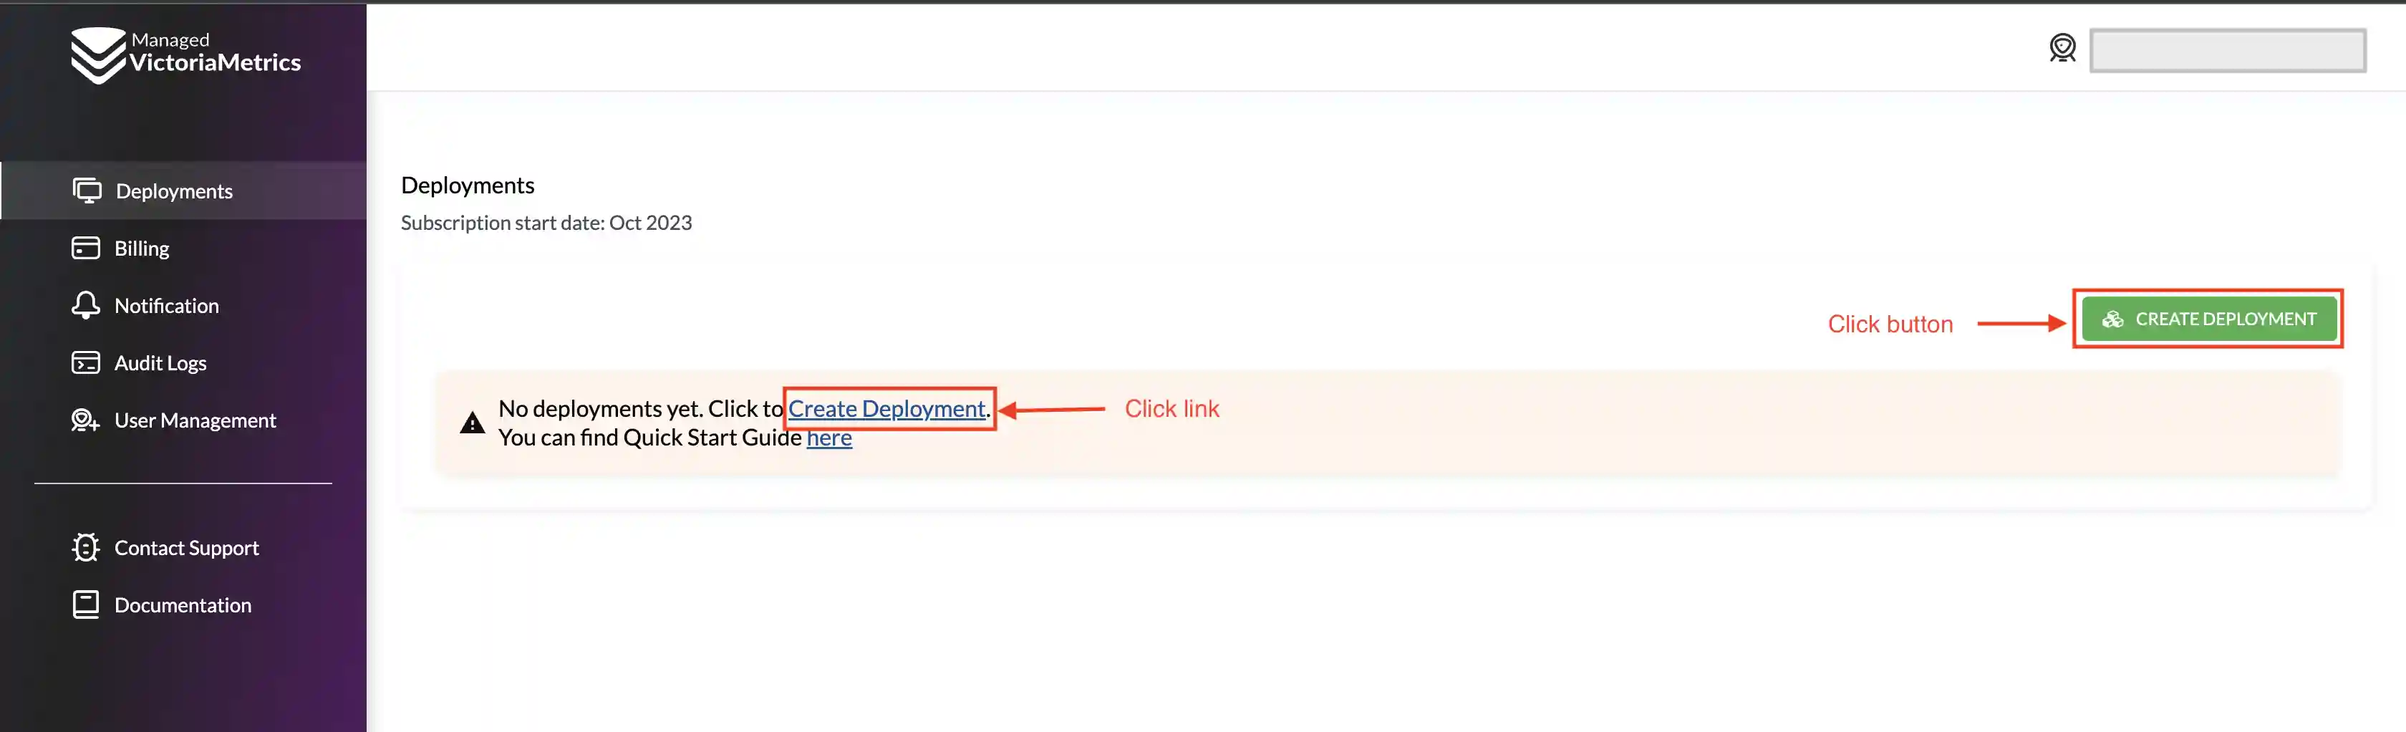
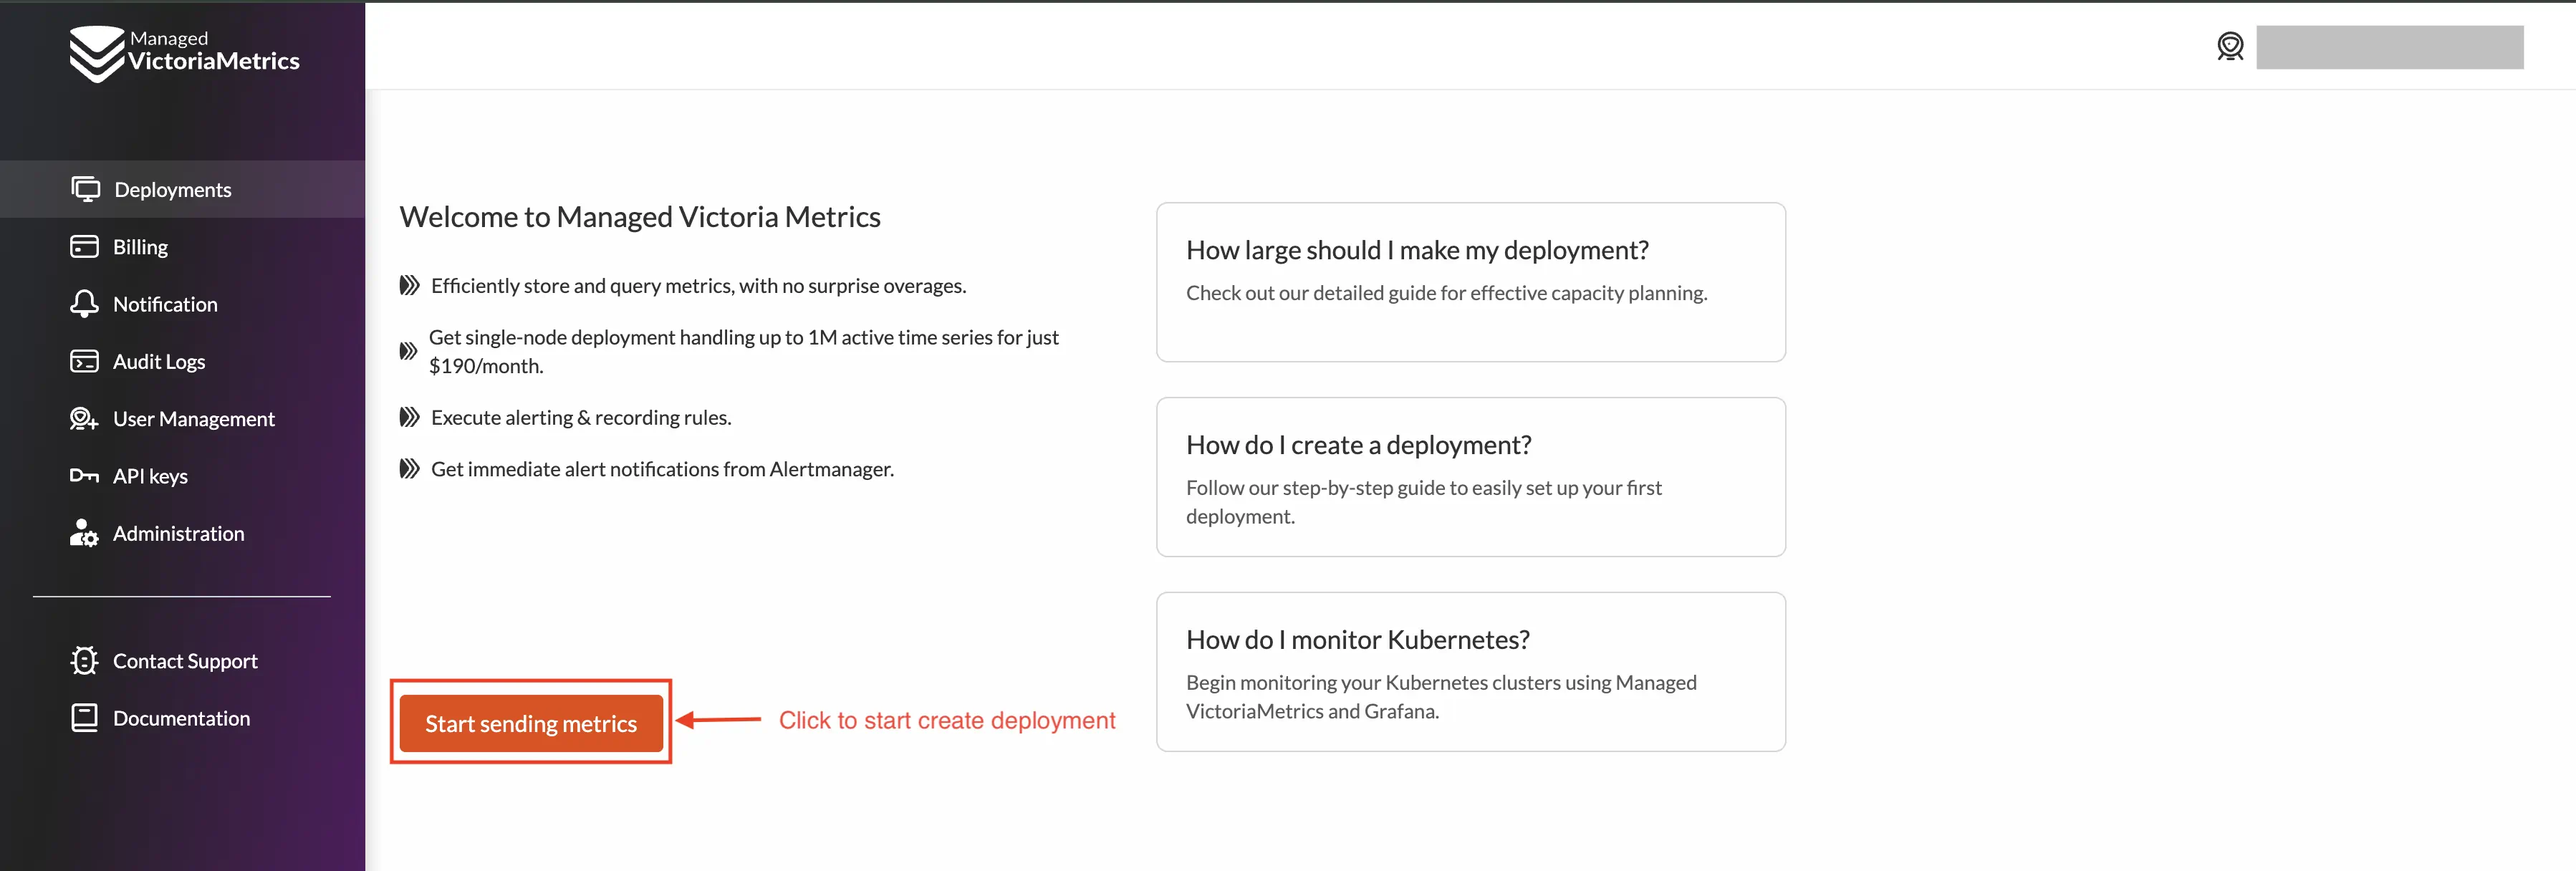
docs: update managed create deployment description (#6376)
### Describe Your Changes

Updated description how to create deployment in the cloud soulution

diff --git a/docs/managed-victoriametrics/quickstart.md b/docs/managed-victoriametrics/quickstart.md
@@ -183,10 +183,14 @@ If you forgot your password, it can be restored in the following way:
 On the [Deployments](https://cloud.victoriametrics.com/deployments?utm_source=website&utm_campaign=docs_quickstart) page you 
 will see a list of your existing deployments and will be able to manage them. 
 
-To create a deployment click on the button `Create Deployment` button:
+To create a deployment click on the button `Start sending metrics` button:
 
 
   <img src="create_deployment_start.webp" >
+
+When you already have at least one deployment you can create a new one by clicking on the `Create deployment` button:
+
+   <img src="create_deployment_continue.webp">
 
 
 On the opened screen, choose parameters of your new deployment:
